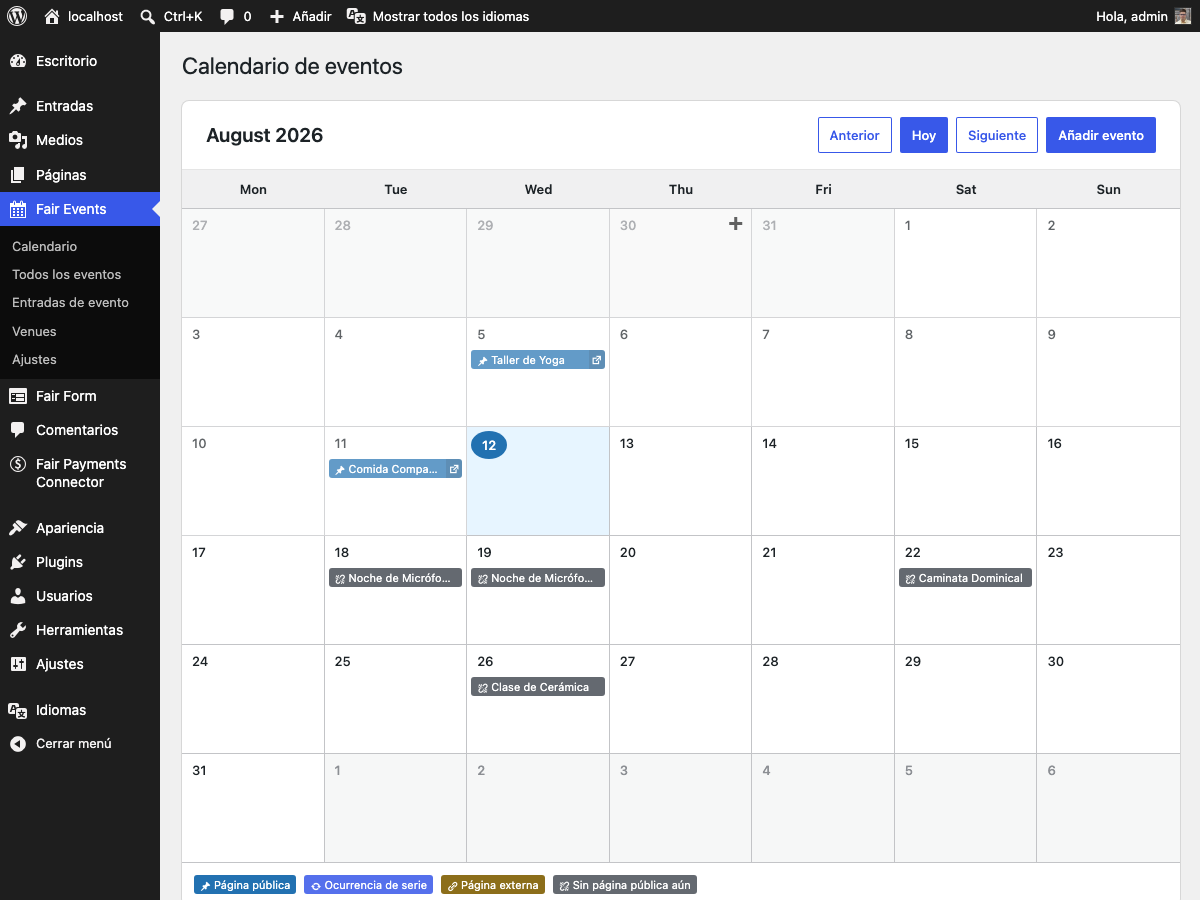
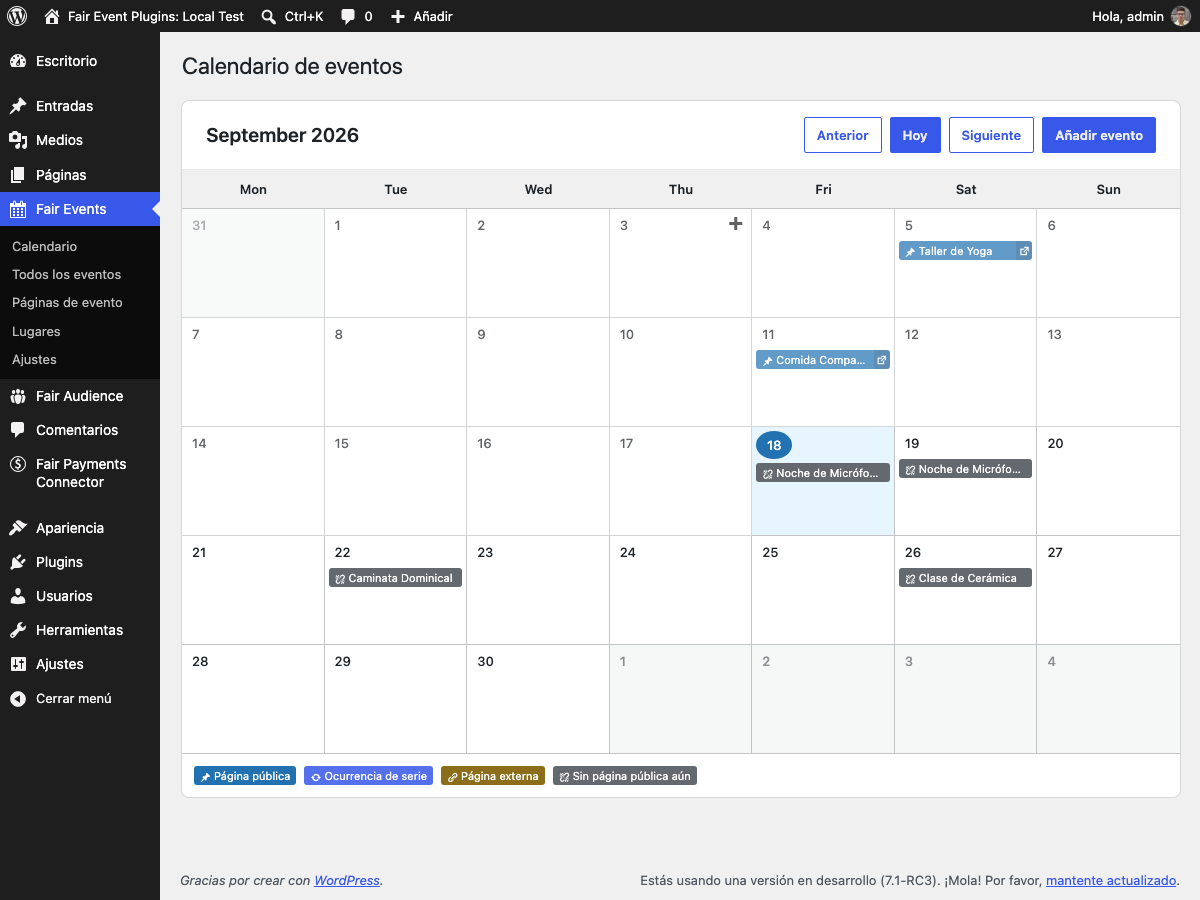
Refresh fair-events store screenshots for Event page rename
#1603 renamed the Events post type's labels from "Event Posts" to
"Event page" / "Event pages", but the WordPress.org listing images
still showed the retired submenu wording in both the default and
Spanish captures — the Spanish set additionally showed "Entradas de
evento", which reads as event tickets. Regenerate all six screenshots
per locale from the current build and update the two readme.txt
captions that still described "a single event post".

Closes #1606

diff --git a/.changeset/tame-plums-refresh.md b/.changeset/tame-plums-refresh.md
@@ -1,0 +1,5 @@
+---
+"fair-events": patch
+---
+
+Refresh the WordPress.org screenshot set and store listing captions to match the "Event page" post type naming, replacing stale "Event Posts" imagery and "a single event post" captions.
